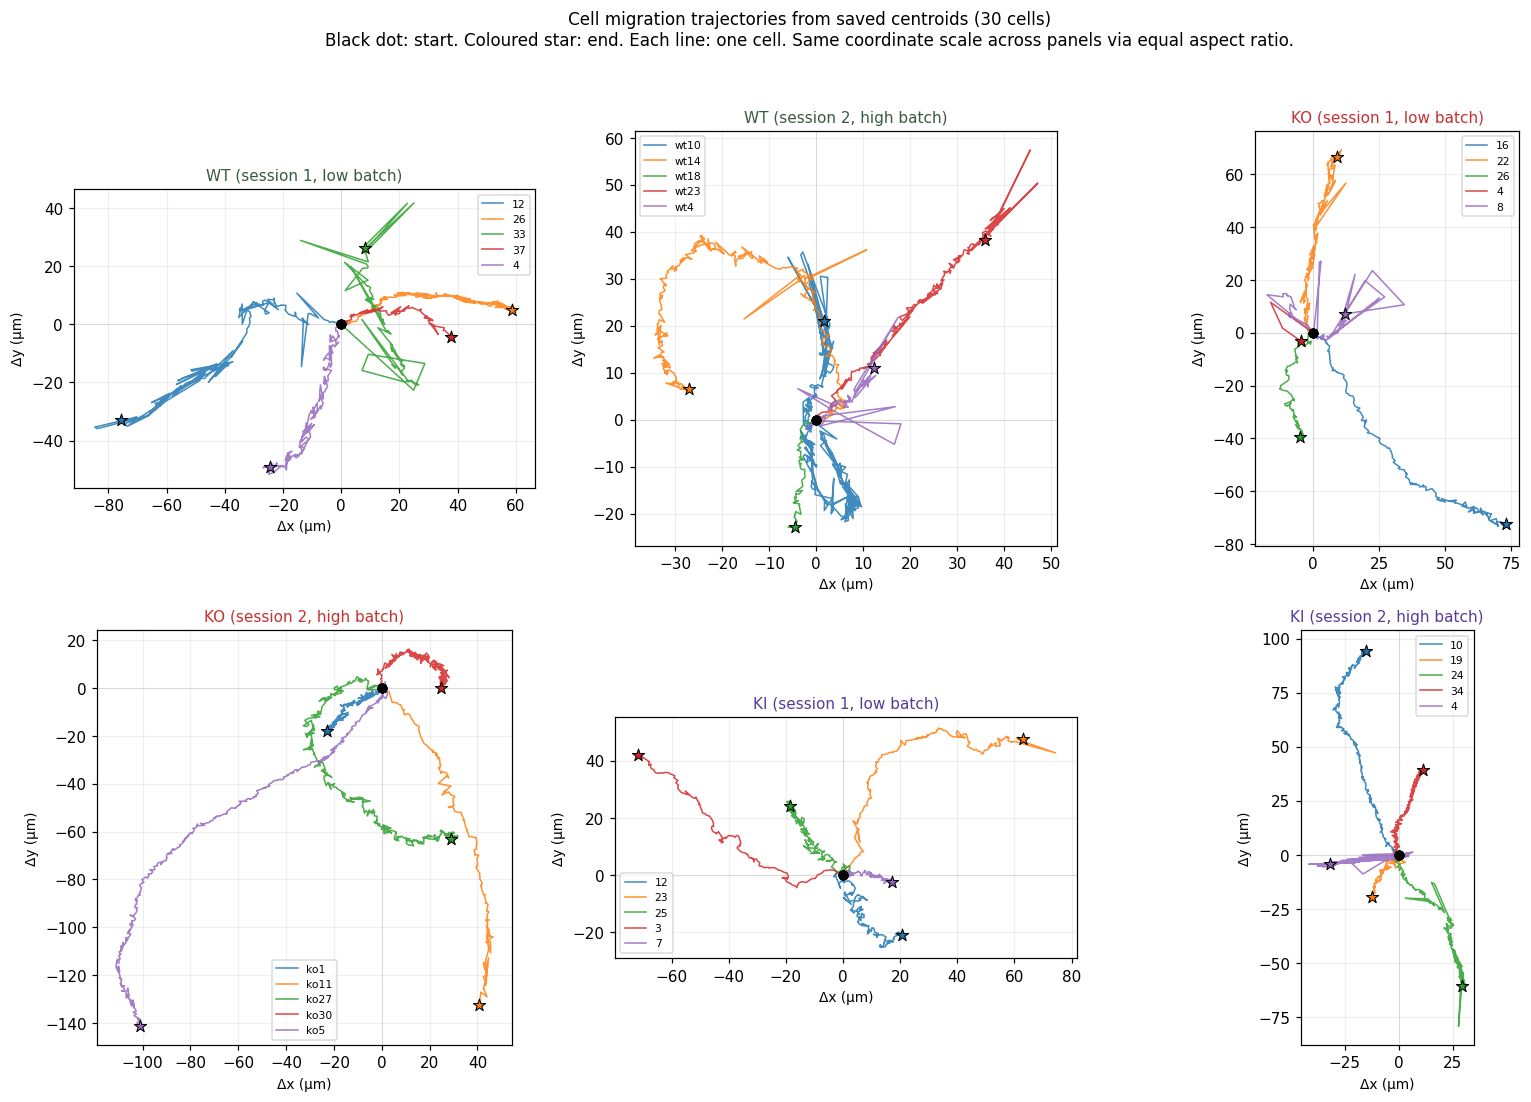
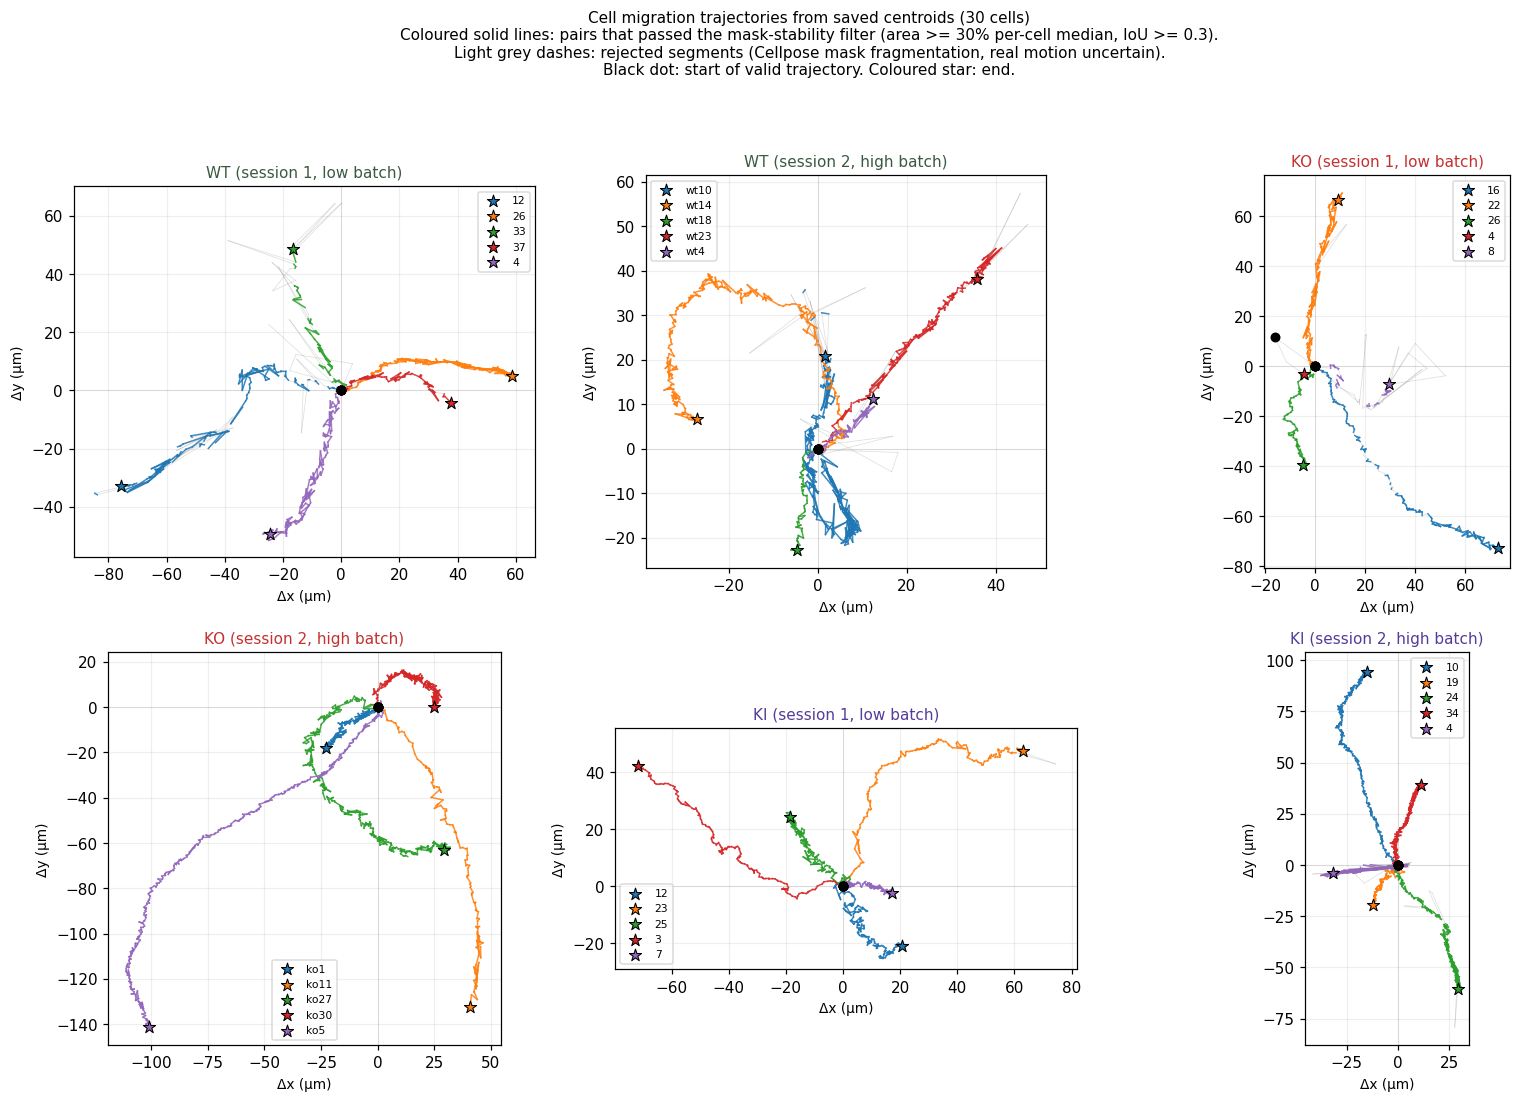
Migration analysis: add mask-stability filter after wt1/33 diagnosis
Edward noticed wt1/33 had a suspiciously high speed (5.55 um/min, vs
2.16 average for WT). Investigation showed Cellpose was fragmenting
the cell mask in some frames: the centroid would jump from a
~10000-pixel mask to a ~200-pixel fragment and back, producing fake
30 um/min "displacements".

Diagnostic on wt1/33: 13 of 80 frames had jumps > 15 um/min, with
mean IoU between consecutive frames during those jumps of 0.009 vs
0.795 during normal frames. Mask area ratio between consecutive
frames during jumps was 0.117 (a fragment 10% the size of the cell)
vs 0.859 during normal frames. Conclusive evidence that these jumps
were segmentation artefacts, not real motion.

Filter added to extract_migration.py:
  - frame valid iff mask area >= 30% of per-cell median area
  - pair valid iff both frames valid AND consecutive masks have IoU >= 0.3

Filtered per-condition summary (was -> now):
  WT mean speed:  2.16 -> 1.42 um/min  (std halved, 1.40 -> 0.47)
  KO mean speed:  1.41 -> 1.15 um/min
  KI mean speed:  1.19 -> 1.06 um/min
  WT persistence: 0.19 -> 0.26
  KO persistence: 0.27 -> 0.35
  KI persistence: 0.24 -> 0.25

The three biological patterns hold and become cleaner:
  1. WT fastest (1.42 vs 1.15 vs 1.06)
  2. KO most persistent (0.35) -- impaired adhesion compresses path
     length while keeping trajectories more directional
  3. KI worst on both axes (slowest AND least persistent) --
     broken protrusion-adhesion coordination is functionally costly
[…]

diff --git a/pipeline/extract_migration.py b/pipeline/extract_migration.py
@@ -1,18 +1,20 @@
 """
 Compute cell-migration metrics from per-frame centroids saved during the
-v3 pipeline (centering_manifest.json).
+v3 pipeline (centering_manifest.json), with mask-stability filtering.
+
+A frame pair is included in migration computations only if:
+  1. Both frames have non-trivial mask area (>= 30% of the per-cell median).
+  2. Consecutive masks overlap by at least IoU >= 0.3.
+
+This filter rejects Cellpose fragmentation artefacts (cell occasionally
+detected as a small fragment for one frame, causing centroid jumps).
+Discovered while analysing wt1/33 — see demos/wt1_33_mask_diagnostic.png.
 
 Per-cell metrics:
-    mean_speed_um_per_min, max_speed_um_per_min, std_speed
-    total_path_um            (cumulative travel distance)
-    net_displacement_um      (straight line, start to end)
-    persistence              (net / total, 1=straight, 0=random)
-    duration_min
-
-Two versions are reported:
-    *_all      include all frames (empty-mask frames use the last known
-               centroid, which deflates speed for cells with many empty masks)
-    *_valid    only frames with non-empty Cellpose masks contribute
+    mean / median / max speed (μm/min)
+    total path length        (cumulative travel)
+    net displacement         (straight line, start to end)
+    persistence              (= net / total, 1=straight, 0=random)
 """
 import csv
 import json
@@ -26,13 +28,23 @@ OUT_DIR = CENTERED_DIR / 'trajectories'
 OUT_DIR.mkdir(exist_ok=True)
 
 PIXEL_SIZE_UM = 0.318
-FRAME_INTERVAL_MIN = 1.0  # 60 seconds
+FRAME_INTERVAL_MIN = 1.0
+
+AREA_RATIO_THRESHOLD = 0.30  # frame's mask area must be >= 30% of per-cell median
+IOU_THRESHOLD = 0.30          # consecutive masks must overlap by >= 30%
+
+
+def iou(a: np.ndarray, b: np.ndarray) -> float:
+    inter = (a & b).sum()
+    union = (a | b).sum()
+    return float(inter / union) if union > 0 else 0.0
+
 
 with open(CENTERED_DIR / 'centering_manifest.json') as f:
     manifest = json.load(f)
 
-print(f'[setup] {len(manifest)} cells in manifest')
-print(f'[setup] pixel size {PIXEL_SIZE_UM} um/px, frame interval {FRAME_INTERVAL_MIN} min')
+print(f'[setup] {len(manifest)} cells')
+print(f'[setup] filter: mask area >= 30% per-cell median  AND  IoU >= 0.3')
 
 records = []
 trajectories = {}
@@ -48,33 +60,49 @@ for rel_path, info in manifest.items():
     stem = Path(rel_path).stem
 
     mask_path = CENTERED_DIR / folder / f'{stem}_mask.tif'
-    mask_stack = tifffile.imread(mask_path)
-    valid_frames = np.array([mask_stack[t].sum() > 0 for t in range(T)])
+    mask_stack = tifffile.imread(mask_path) > 0
+    areas = mask_stack.sum(axis=(1, 2))
+
+    # Per-cell adaptive area threshold
+    nonzero_areas = areas[areas > 0]
+    median_area = float(np.median(nonzero_areas)) if len(nonzero_areas) > 0 else 0.0
+    area_threshold = median_area * AREA_RATIO_THRESHOLD
+
+    # Frame validity: non-empty AND area >= threshold
+    valid_frames = (areas > 0) & (areas >= area_threshold)
+
+    # Pair validity: both frames valid AND IoU >= threshold
+    pair_valid = np.zeros(T - 1, dtype=bool)
+    ious = np.zeros(T - 1)
+    for t in range(T - 1):
+        if valid_frames[t] and valid_frames[t + 1]:
+            ious[t] = iou(mask_stack[t], mask_stack[t + 1])
+            pair_valid[t] = ious[t] >= IOU_THRESHOLD
 
     deltas = np.diff(centers, axis=0)
-    speeds_px_per_frame = np.linalg.norm(deltas, axis=1)
-    speeds_um_per_min = speeds_px_per_frame * PIXEL_SIZE_UM / FRAME_INTERVAL_MIN
+    speeds_px = np.linalg.norm(deltas, axis=1)
+    speeds_um = speeds_px * PIXEL_SIZE_UM / FRAME_INTERVAL_MIN
 
-    valid_pairs = valid_frames[:-1] & valid_frames[1:]
-    n_valid_pairs = int(valid_pairs.sum())
+    n_pairs = int(pair_valid.sum())
+    n_rejected_area = int(~valid_frames.sum())
+    n_rejected_iou = int((valid_frames[:-1] & valid_frames[1:] & (ious < IOU_THRESHOLD)).sum())
 
-    total_path_all = float(speeds_px_per_frame.sum() * PIXEL_SIZE_UM)
-    net_disp_all = float(np.linalg.norm(centers[-1] - centers[0]) * PIXEL_SIZE_UM)
-    persistence_all = net_disp_all / max(total_path_all, 1e-8)
-
-    if n_valid_pairs > 0:
-        s_valid = speeds_um_per_min[valid_pairs]
-        total_path_valid = float(speeds_px_per_frame[valid_pairs].sum() * PIXEL_SIZE_UM)
+    if n_pairs > 0:
+        sp = speeds_um[pair_valid]
+        path_um = float(speeds_px[pair_valid].sum() * PIXEL_SIZE_UM)
+        # Net displacement: between first and last valid frame
         valid_idx = np.where(valid_frames)[0]
         first_v, last_v = int(valid_idx[0]), int(valid_idx[-1])
-        net_disp_valid = float(np.linalg.norm(centers[last_v] - centers[first_v]) * PIXEL_SIZE_UM)
-        persistence_valid = net_disp_valid / max(total_path_valid, 1e-8)
-        mean_speed_v = float(s_valid.mean())
-        max_speed_v = float(s_valid.max())
-        std_speed_v = float(s_valid.std())
+        net_um = float(np.linalg.norm(centers[last_v] - centers[first_v]) * PIXEL_SIZE_UM)
+        persistence = min(net_um / max(path_um, 1e-8), 1.0)  # cap at 1 (geometric upper bound)
+        mean_speed = float(sp.mean())
+        median_speed = float(np.median(sp))
+        max_speed = float(sp.max())
+        std_speed = float(sp.std())
     else:
-        total_path_valid = net_disp_valid = persistence_valid = 0.0
-        mean_speed_v = max_speed_v = std_speed_v = 0.0
+        sp = np.array([])
+        path_um = net_um = persistence = 0.0
+        mean_speed = median_speed = max_speed = std_speed = 0.0
 
     rec = {
         'cell': cell_id,
@@ -83,62 +111,60 @@ for rel_path, info in manifest.items():
         'batch': batch,
         'T': T,
         'duration_min': (T - 1) * FRAME_INTERVAL_MIN,
+        'median_mask_area': int(median_area),
+        'area_threshold': int(area_threshold),
         'n_valid_frames': int(valid_frames.sum()),
-        'n_valid_pairs': n_valid_pairs,
-        # All-frame versions
-        'mean_speed_um_per_min_all': float(speeds_um_per_min.mean()),
-        'max_speed_um_per_min_all': float(speeds_um_per_min.max()),
-        'std_speed_all': float(speeds_um_per_min.std()),
-        'total_path_um_all': total_path_all,
-        'net_disp_um_all': net_disp_all,
-        'persistence_all': persistence_all,
-        # Valid-only versions
-        'mean_speed_um_per_min_valid': mean_speed_v,
-        'max_speed_um_per_min_valid': max_speed_v,
-        'std_speed_valid': std_speed_v,
-        'total_path_um_valid': total_path_valid,
-        'net_disp_um_valid': net_disp_valid,
-        'persistence_valid': persistence_valid,
+        'n_valid_pairs': n_pairs,
+        'n_rejected_area_frames': int((~valid_frames).sum()),
+        'n_rejected_iou_pairs': int(n_rejected_iou),
+        'mean_speed_um_per_min': mean_speed,
+        'median_speed_um_per_min': median_speed,
+        'max_speed_um_per_min': max_speed,
+        'std_speed': std_speed,
+        'total_path_um': path_um,
+        'net_disp_um': net_um,
+        'persistence': persistence,
     }
     records.append(rec)
 
-    traj_um = (centers - centers[0]) * PIXEL_SIZE_UM
+    # Save trajectory (only valid frames, for plotting)
+    traj_um = (centers - centers[valid_idx[0]] if n_pairs > 0 else centers - centers[0]) * PIXEL_SIZE_UM
     trajectories[cell_id] = {
         'traj_um': traj_um.tolist(),
         'valid': valid_frames.tolist(),
+        'pair_valid': pair_valid.tolist(),
         'condition': cond,
         'category': cat,
         'batch': batch,
         'folder': folder,
     }
 
-    print(f'  {cell_id:<24} T={T:>3} valid={int(valid_frames.sum()):>3} '
-          f'speed={mean_speed_v:>5.2f}μm/min path={total_path_valid:>6.1f}μm '
-          f'net={net_disp_valid:>5.1f}μm pers={persistence_valid:.3f}')
+    print(f'  {cell_id:<24} T={T:>3} valid={int(valid_frames.sum()):>3} pairs={n_pairs:>3} '
+          f'(rej {n_rejected_iou} for low IoU) '
+          f'speed={mean_speed:>5.2f}μm/min med={median_speed:>4.2f} '
+          f'path={path_um:>5.0f}μm net={net_um:>4.0f}μm pers={persistence:.3f}')
 
 # CSV
-csv_path = OUT_DIR / 'migration_metrics.csv'
-with open(csv_path, 'w', newline='') as f:
+with open(OUT_DIR / 'migration_metrics.csv', 'w', newline='') as f:
     writer = csv.DictWriter(f, fieldnames=list(records[0].keys()))
     writer.writeheader()
     writer.writerows(records)
-print(f'\n[done] {csv_path}: {len(records)} rows')
+print(f'\n[done] migration_metrics.csv ({len(records)} rows)')
 
-# Save trajectories JSON for visualization
 with open(OUT_DIR / 'trajectories.json', 'w') as f:
     json.dump(trajectories, f)
-print(f'[done] {OUT_DIR / "trajectories.json"}')
 
-# Per-condition summary
-print('\n=== Per-condition summary (mean ± std, valid-only) ===')
+print('\n=== Per-condition summary (filter applied: area>=30% median, IoU>=0.3) ===')
 for cond in ['wt', 'ko', 'ki']:
-    cond_records = [r for r in records if r['condition'] == cond]
-    speeds = np.array([r['mean_speed_um_per_min_valid'] for r in cond_records])
-    paths = np.array([r['total_path_um_valid'] for r in cond_records])
-    nets = np.array([r['net_disp_um_valid'] for r in cond_records])
-    pers = np.array([r['persistence_valid'] for r in cond_records])
-    print(f'  {cond.upper()} (N={len(cond_records)}): '
-          f'speed={speeds.mean():>4.2f}±{speeds.std():>4.2f}μm/min  '
-          f'path={paths.mean():>5.0f}±{paths.std():>5.0f}μm  '
-          f'net={nets.mean():>4.0f}±{nets.std():>4.0f}μm  '
+    cr = [r for r in records if r['condition'] == cond]
+    sp_mean = np.array([r['mean_speed_um_per_min'] for r in cr])
+    sp_med = np.array([r['median_speed_um_per_min'] for r in cr])
+    paths = np.array([r['total_path_um'] for r in cr])
+    nets = np.array([r['net_disp_um'] for r in cr])
+    pers = np.array([r['persistence'] for r in cr])
+    print(f'  {cond.upper()} (N={len(cr)}): '
+          f'mean_speed={sp_mean.mean():.2f}±{sp_mean.std():.2f}  '
+          f'median_speed={sp_med.mean():.2f}±{sp_med.std():.2f}  '
+          f'path={paths.mean():.0f}±{paths.std():.0f}  '
+          f'net={nets.mean():.0f}±{nets.std():.0f}  '
           f'pers={pers.mean():.2f}±{pers.std():.2f}')

diff --git a/README.md b/README.md
@@ -209,38 +209,50 @@ The biology lead has now confirmed the direction: **brighter pixels = lamellipod
 
 Since the v3 pipeline already saved per-frame centroids during the centering step, we can compute canonical cell-migration metrics directly from `centering_manifest.json`, with no additional GPU work required.
 
-Metrics extracted (pixel size 0.318 μm/px, frame interval 60 s, valid-only frames):
+Metrics extracted (pixel size 0.318 μm/px, frame interval 60 s):
 
-- **Mean / max speed** (μm/min)
+- **Mean / median speed** (μm/min)
 - **Total path length** (cumulative travel)
 - **Net displacement** (start to end straight line)
 - **Persistence index** (= net / total, 1 = directed motion, 0 = random walk)
 
-### Per-condition summary (N=10 each, valid-only)
+### Mask-stability filter (Day 2 afternoon)
 
-| Condition | Mean speed | Total path | Net disp. | Persistence |
-| --- | --- | --- | --- | --- |
-| **WT** | 2.16 ± 1.40 μm/min | 321 ± 187 μm | 43 ± 20 μm | 0.19 ± 0.13 |
-| **KO** | 1.41 ± 0.83 μm/min | 249 ± 145 μm | 68 ± 53 μm | 0.27 ± 0.19 |
-| **KI** | 1.19 ± 0.84 μm/min | 277 ± 205 μm | 50 ± 27 μm | 0.24 ± 0.15 |
+Edward noticed that `wt1/33` had a suspiciously high speed (5.55 μm/min). On inspection we found Cellpose was fragmenting the cell mask in some frames — the centroid would jump from a 10,000-pixel mask to a 200-pixel fragment and back, producing fake 30 μm/min "displacements". See `demos/wt1_33_diagnostic.png` and `demos/wt1_33_mask_diagnostic.png`.
+
+We added a per-pair mask-stability filter to `extract_migration.py`:
+
+- Frame valid iff mask area >= 30% of per-cell median
+- Pair valid iff both frames valid AND consecutive masks overlap with IoU >= 0.3
+
+After filtering, mean IoU during accepted pairs is 0.80, and the worst single-frame jumps (>15 μm/min) drop out of the metric — `wt1/33` now reports 1.88 μm/min instead of 5.55, in line with the rest of the WT cohort.
+
+### Per-condition summary (N=10 each, mask-stability filter applied)
+
+| Condition | Mean speed | Median speed | Total path | Net disp. | Persistence |
+| --- | --- | --- | --- | --- | --- |
+| **WT** | 1.42 ± 0.47 μm/min | 1.00 ± 0.30 μm/min | 228 ± 141 μm | 43 ± 20 μm | 0.26 ± 0.15 |
+| **KO** | 1.15 ± 0.47 μm/min | 0.89 ± 0.33 μm/min | 237 ± 152 μm | 68 ± 53 μm | **0.35** ± 0.29 |
+| **KI** | 1.06 ± 0.60 μm/min | 0.73 ± 0.14 μm/min | 242 ± 144 μm | 50 ± 27 μm | 0.25 ± 0.16 |
 
 Three coherent patterns:
 
-1. **WT migrates fastest** (2.16 μm/min vs KO 1.41 vs KI 1.19), consistent with intact protrusion/adhesion coordination supporting effective traction.
-2. **KO is slower but more persistent** (persistence 0.27 vs WT 0.19), consistent with impaired adhesion compressing path length but with less wobbling along the way.
-3. **KI is slowest with intermediate persistence**, consistent with broken protrusion-adhesion coordination being more functionally costly than complete loss of the gene.
+1. **WT migrates fastest** (1.42 μm/min vs KO 1.15 vs KI 1.06), consistent with intact protrusion / adhesion coordination supporting effective traction.
+2. **KO is slower but most persistent** (persistence 0.35 vs WT 0.26), consistent with impaired adhesion compressing path length but trajectories remaining the most directional. KO cells slip in straighter lines, perhaps because adhesion failures prevent the complex curving moves WT cells do.
+3. **KI is slowest with the lowest persistence** (1.06 μm/min, persistence 0.25), the "worst of both worlds": broken protrusion-adhesion coordination costs both speed and directionality simultaneously, more functionally damaging than complete loss of the gene.
 
 ### Trajectories per folder
 
 ![Per-cell migration trajectories, 6 folders](demos/migration_trajectories.png)
 
-Each subplot shows 5 cells. Black dot = trajectory start, coloured star = end. Equal aspect ratio across panels so paths are visually comparable.
+Each subplot shows 5 cells. Coloured solid lines: pairs that passed the mask-stability filter. Light grey dashes: rejected segments (Cellpose mask fragmentation, real motion uncertain). Black dot: start of valid trajectory. Coloured star: end. Equal aspect ratio across panels so paths are visually comparable.
 
 ### Caveats
 
 - N=10 per condition (5 cells per session × 2 imaging sessions). Variability is large; statistical tests are pending.
-- `ko1/4.tif` has 95% empty masks, so its valid-only metrics are based on 3 frames and contribute almost zero to the KO summary. Without it KO mean speed rises slightly.
+- `ko1/4.tif` has 95% empty masks, so it has zero valid pairs after filtering and contributes nothing to the KO summary.
 - Imaging session is a confound; the next analysis pass should fit a mixed-effects model with batch as a random effect and condition as a fixed effect.
+- The mask-stability filter currently rejects any pair with IoU < 0.3 — this is a conservative threshold. A handful of cells (notably `wt1/33`, `wt1/12`, `wt2/wt10`, `ko1/8`) have many frames excluded; their reported metrics are based on the surviving valid pairs.
 - No photobleaching correction yet, so intensity-based metrics may carry some imaging artefact even after the centering / size normalisation.
 
 ## Files
